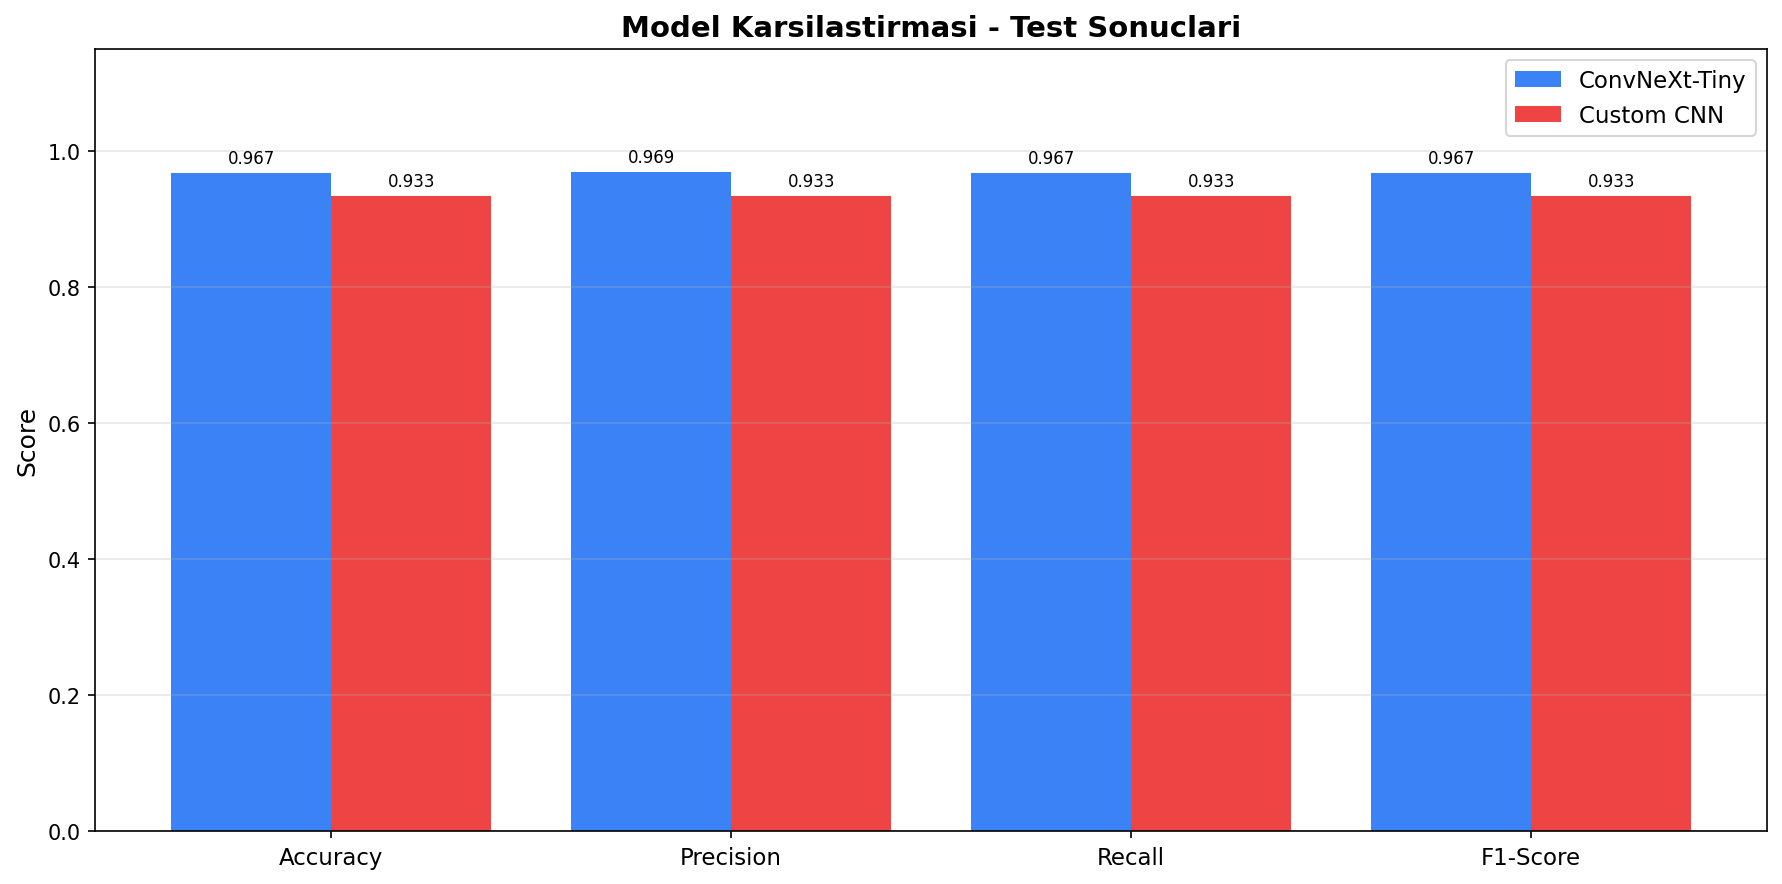
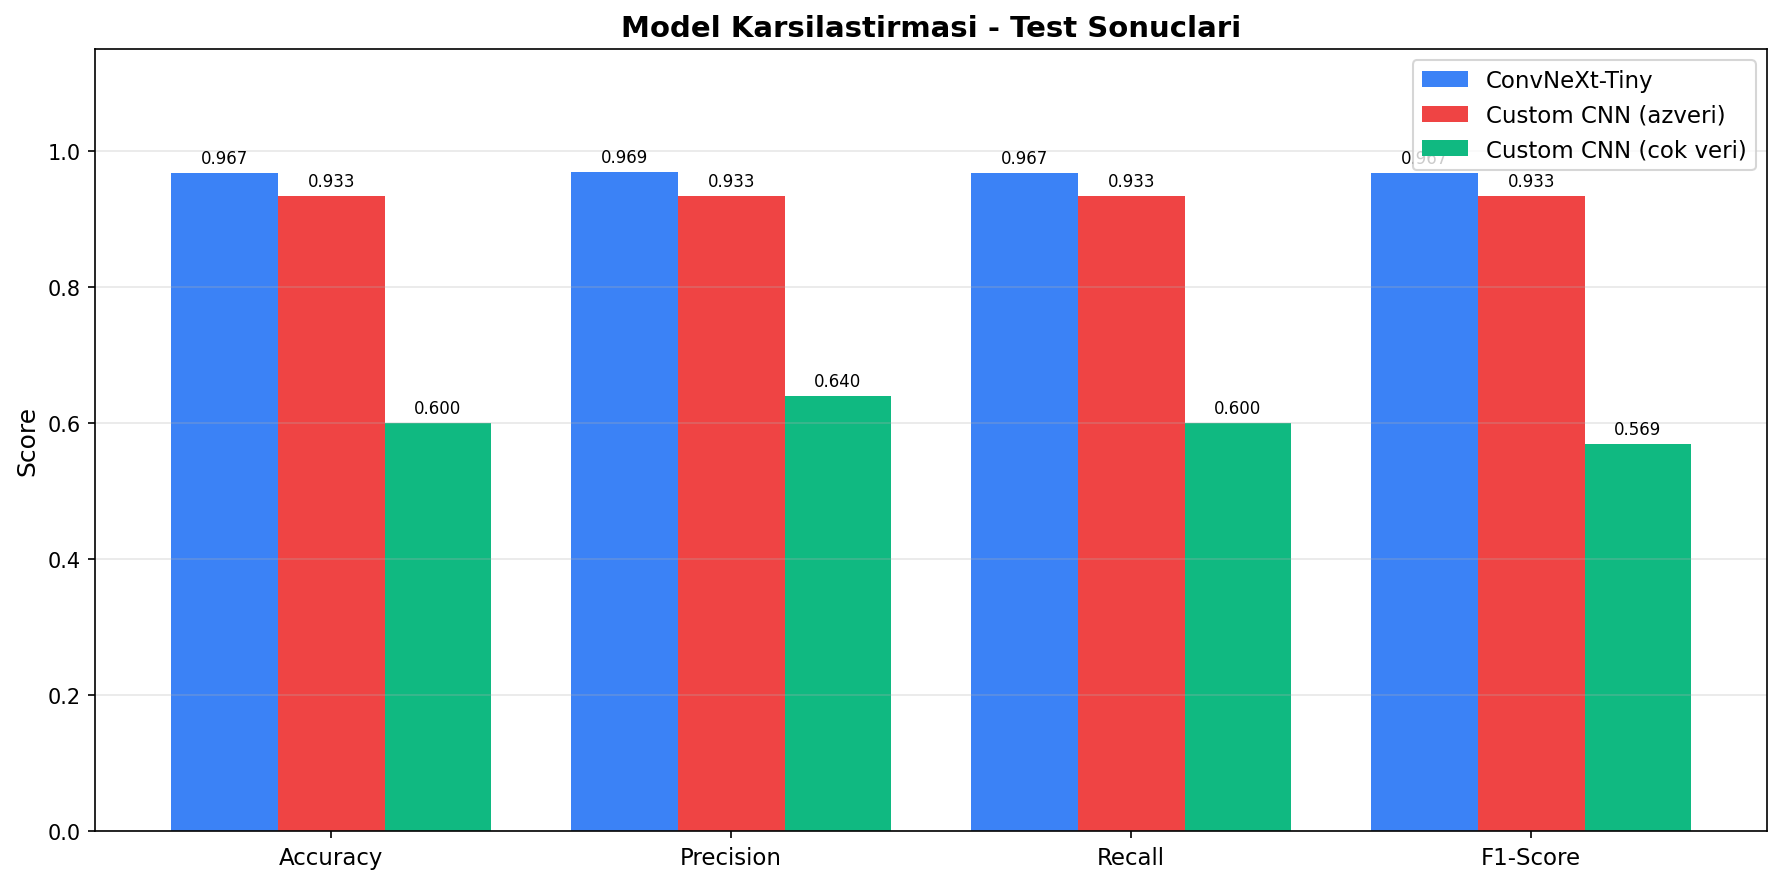
Add metrics for Custom CNN (cok veri) model to JSON file

diff --git a/src/evaluate.py b/src/evaluate.py
@@ -358,11 +358,52 @@ def plot_comparison(all_metrics: Dict) -> None:
     models = [m["model_name"] for m in all_metrics.values()]
     metrics_names = ["Accuracy", "Precision", "Recall", "F1-Score"]
     colors = ["#3b82f6", "#ef4444", "#10b981", "#f59e0b"]
+    # Veri setini ve istatistikleri tekrar yükle (NameError: test_paths hatasını önlemek için)
+    _, _, test_df = get_split_data()
+    test_paths = test_df["image_path"].tolist()
+    test_labels = test_df["label"].tolist()
+
+    stats_path = MODELS_DIR / "train_stats.json"
+    with open(str(stats_path), "r") as f:
+        stats = json.load(f)
+    mean, std = stats["mean"], stats["std"]
 
     values = []
     for m in all_metrics.values():
         values.append([
+            m["accuracy"], m["precision_weighted"],            m["recall_weighted"], m["f1_weighted"]
+        ]
+    )
+
+    # Terminal çıktısı için 3 model kontrolü ve eklenmesi
+    # (Eğer klasörde az_veri ve cok_veri checkpointleri varsa onları da listeye ekle)
+    available_checkpoints = list(MODELS_DIR.glob("custom_cnn_best*.pth"))
+    if len(available_checkpoints) > 1:
+        # Mevcut metrics sözlüğünü temizle ve tüm checkpointleri değerlendir
+        all_metrics = {}
+        # Önce ConvNeXt
+        if (MODELS_DIR / "convnext_tiny_best.pth").exists():
+            convnext = get_convnext_model(pretrained=False)
+            ckpt = torch.load(str(MODELS_DIR / "convnext_tiny_best.pth"), map_location=DEVICE, weights_only=False)
+            convnext.load_state_dict(ckpt["model_state_dict"])
+            all_metrics["convnext"] = evaluate_model(convnext, "ConvNeXt-Tiny", test_paths, test_labels, mean, std)
+
+        # Sonra tüm Custom CNN varyasyonlarını (Az Veri, Normal, Çok Veri)
+        for ckpt_path in available_checkpoints:
+            suffix = ckpt_path.stem.replace("custom_cnn_best", "").replace(".", " ").strip()
+            display_name = f"Custom CNN ({suffix})" if suffix else "Custom CNN (Normal)"
+            
+            c_model = get_custom_cnn()
+            ckpt = torch.load(str(ckpt_path), map_location=DEVICE, weights_only=False)
+            c_model.load_state_dict(ckpt["model_state_dict"])
+            all_metrics[ckpt_path.stem] = evaluate_model(c_model, display_name, test_paths, test_labels, mean, std)
+
+    models = [m["model_name"] for m in all_metrics.values()]
+    values = []
+    for m in all_metrics.values():
+        values.append([
             m["accuracy"], m["precision_weighted"],
+
             m["recall_weighted"], m["f1_weighted"]
         ])
 
